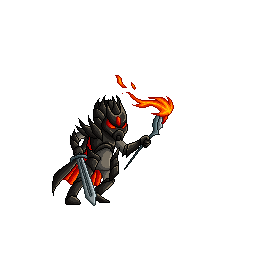
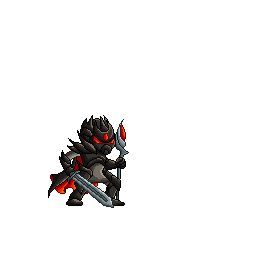
Extend SpriteMaster with FirstBossSpriteMaster Add SpriteMaster's subclass FirstBossSpriteMaster Override the get_sprite_frame method in FirstBossSpriteMaster Add new assets for close combat

Changed region(s): [[0.1875, 0.2812, 0.6875, 0.8125]]

diff --git a/masters/first_boss_sprite_master.py b/masters/first_boss_sprite_master.py
@@ -1,0 +1,50 @@
+import pygame
+import os
+from masters.sprite_master import SpriteMaster
+
+
+class FirstBossSpriteMaster(SpriteMaster):
+    """
+    The first level boss's sprite master
+    It extends the SpriteMaster by distinguishing between close attacks and distant attacks
+    """
+
+    def __init__(self, path, 
+                 idle: int, walk:int, close_attack:int, 
+                 distant_attack:int, hurt:int, death:int, 
+                 block: int, animation_speed=0.1, start_action="idle"):
+        super().__init__(path, idle=idle, walk=walk, attack=close_attack,
+                         hurt=hurt, death=death, block=block, animation_speed=animation_speed, start_action=start_action)
+        # Load images for different animations
+        self.shoot_images = [pygame.image.load(os.path.join(path, f'shoot{i}.png')) for i in range(distant_attack)]
+    
+    def get_sprite_frame(self, action):
+        self.round_done = False
+        # Update animation based on action
+        if action == 'idle':
+            self.current_images = self.idle_images
+        elif action == 'close_fight' or action == "hit":
+            self.current_images = self.attack_images
+        elif action == "distant_fight" or action == "shoot":
+            self.current_images = self.shoot_images
+        elif action == 'walk':
+            self.current_images = self.walk_images
+        elif action == 'hurt':
+            self.current_images = self.hurt_images
+        elif action == 'death':
+            self.current_images = self.death_images
+        elif action == 'block':
+            self.current_images = self.block_images
+        
+
+        # Update frame index
+        self.frame_index += self.animation_speed
+        if self.frame_index >= len(self.current_images):
+            self.frame_index = 0
+            self.round_done = True
+
+        # pick the correct frame
+        frame = int(self.frame_index)
+        self.image = self.current_images[frame]
+
+        return self.image

diff --git a/characters/wizard.py b/characters/wizard.py
@@ -1,15 +1,15 @@
 import pygame
 from characters.enemy import Enemy
 from characters.projectile import Projectile
-from masters.sprite_master import SpriteMaster
+from masters.first_boss_sprite_master import FirstBossSpriteMaster
 from scenes.scene_state import SceneState
 
 
 class Wizard(Enemy):
 
     def __init__(self, game_screen, start_position, projectile: Projectile):
-        super().__init__(game_screen, start_position, SpriteMaster("levels/test_levels/distant_attack/wizard", 
-                            idle=3, walk=6, attack=5, 
+        super().__init__(game_screen, start_position, FirstBossSpriteMaster("levels/test_levels/distant_attack/wizard", 
+                            idle=3, walk=6, close_attack=5, distant_attack=5, 
                             hurt=2, death=5, block=0, start_action="idle"))
         
         # Inject the projectile the wizard will use and adjust its position
